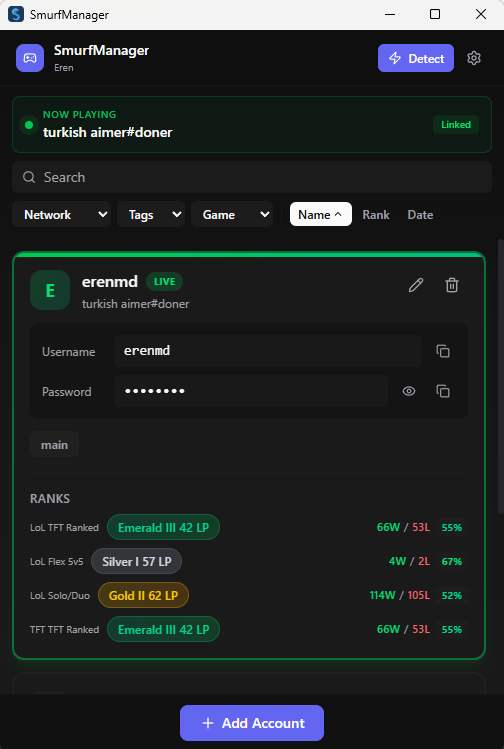
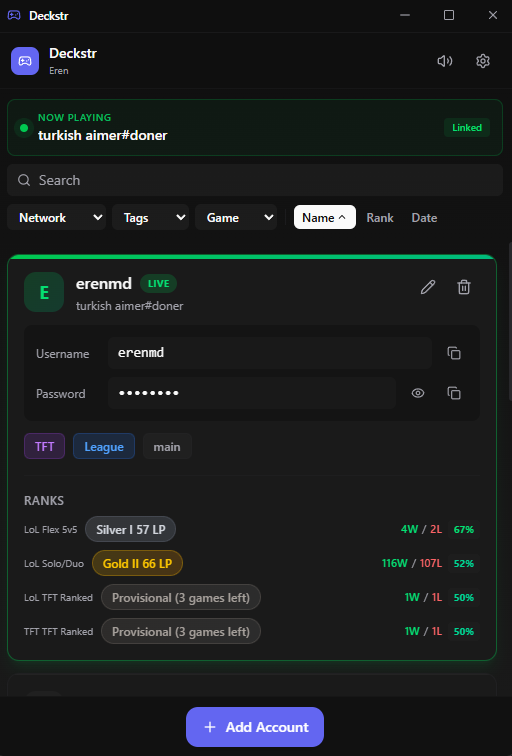
docs: add ghosted dashboard backdrop + refresh screenshot
Landing page now has the app's dashboard bleeding in from the left
edge at 0.9 opacity with a horizontal mask that fades to transparent
toward the hero, giving visitors a sense of what they're downloading
without crowding the CTA. Hidden on narrow viewports where it would
overlap the content.

Also refreshed the dashboard.png itself: the new shot features the
NOW PLAYING live-detect banner and the full rank panel, which sells
the auto-detection feature at a glance.

diff --git a/docs/style.css b/docs/style.css
@@ -43,6 +43,44 @@ main {
   flex-direction: column;
   align-items: center;
   gap: 28px;
+  position: relative;
+  z-index: 1;
+}
+
+/* --- Backdrop screenshot ---------------------------------------- */
+
+/* Ghosted dashboard peeking from the left edge — gives the page a sense
+   of "here's what you're downloading" without competing with the CTA.
+   Fades out toward the center so content stays legible. Hidden on narrow
+   viewports where it would crowd the hero. */
+
+.backdrop {
+  position: fixed;
+  top: 50%;
+  left: 4vw;
+  transform: translateY(-50%);
+  max-width: 52vw;
+  max-height: 92vh;
+  opacity: 0.9;
+  pointer-events: none;
+  z-index: 0;
+  filter: saturate(0.85);
+  -webkit-mask-image: linear-gradient(
+    to right,
+    rgba(0, 0, 0, 0.95) 0%,
+    rgba(0, 0, 0, 0.75) 40%,
+    rgba(0, 0, 0, 0) 95%
+  );
+  mask-image: linear-gradient(
+    to right,
+    rgba(0, 0, 0, 0.95) 0%,
+    rgba(0, 0, 0, 0.75) 40%,
+    rgba(0, 0, 0, 0) 95%
+  );
+}
+
+@media (max-width: 900px) {
+  .backdrop { display: none; }
 }
 
 /* --- Logo ------------------------------------------------------- */

diff --git a/docs/index.html b/docs/index.html
@@ -16,6 +16,14 @@
   <link rel="stylesheet" href="style.css" />
 </head>
 <body>
+  <img
+    class="backdrop"
+    src="screenshots/dashboard.png"
+    alt=""
+    aria-hidden="true"
+    loading="lazy"
+  />
+
   <main>
     <img src="logo.svg" alt="Deckstr logo" class="logo" width="64" height="64" />
 
